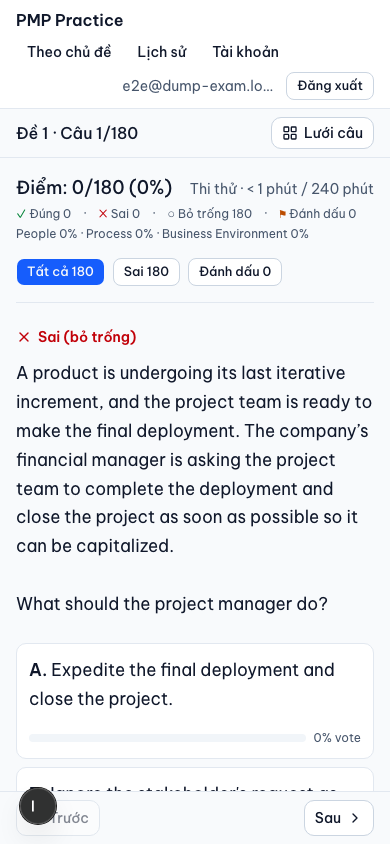
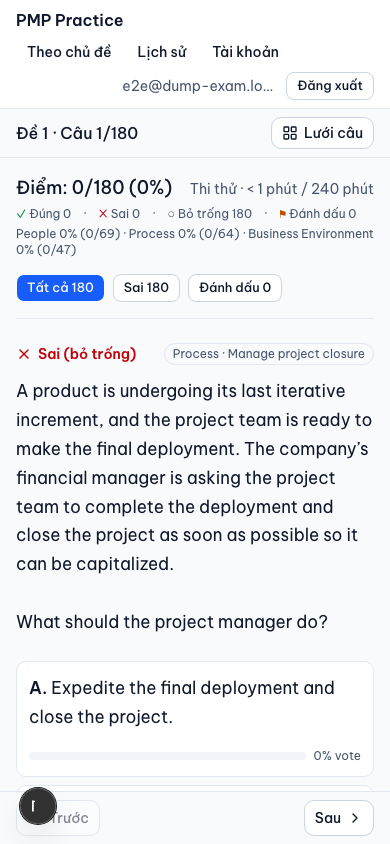
feat(result): show Domain · Task as a right-aligned tag beside Đúng/Sai

diff --git a/app/attempts/[id]/result-screen.tsx b/app/attempts/[id]/result-screen.tsx
@@ -101,7 +101,7 @@ export function ResultScreen(props: { title: string; drill: boolean; domains: { 
         </p>
       ) : (
         <article>
-          <p className={cn("flex items-center gap-1.5 text-sm font-semibold", q.isCorrect ? "text-correct" : "text-wrong")}>
+          <p className={cn("flex flex-wrap items-center gap-1.5 text-sm font-semibold", q.isCorrect ? "text-correct" : "text-wrong")}>
             {q.isCorrect ? <Check className="size-4" /> : <X className="size-4" />}
             {q.isCorrect ? "Đúng" : q.selected.length ? "Sai" : "Sai (bỏ trống)"}
             {q.marked && (
@@ -109,8 +109,8 @@ export function ResultScreen(props: { title: string; drill: boolean; domains: { 
                 <Flag className="size-4" /> Đã đánh dấu
               </span>
             )}
+            {taskLabel(q.task) && <Badge variant="outline" className="ml-auto h-auto max-w-full whitespace-normal font-normal text-muted-foreground">{taskLabel(q.task)}</Badge>}
           </p>
-          {taskLabel(q.task) && <p className="mt-1 text-xs text-muted-foreground">{taskLabel(q.task)}</p>}
           <div className="question-text mt-3" dangerouslySetInnerHTML={{ __html: q.text }} /> {/* sanitized at import */}
           <ul className="mt-6 flex flex-col gap-2">
             {q.choices.map((c) => {
